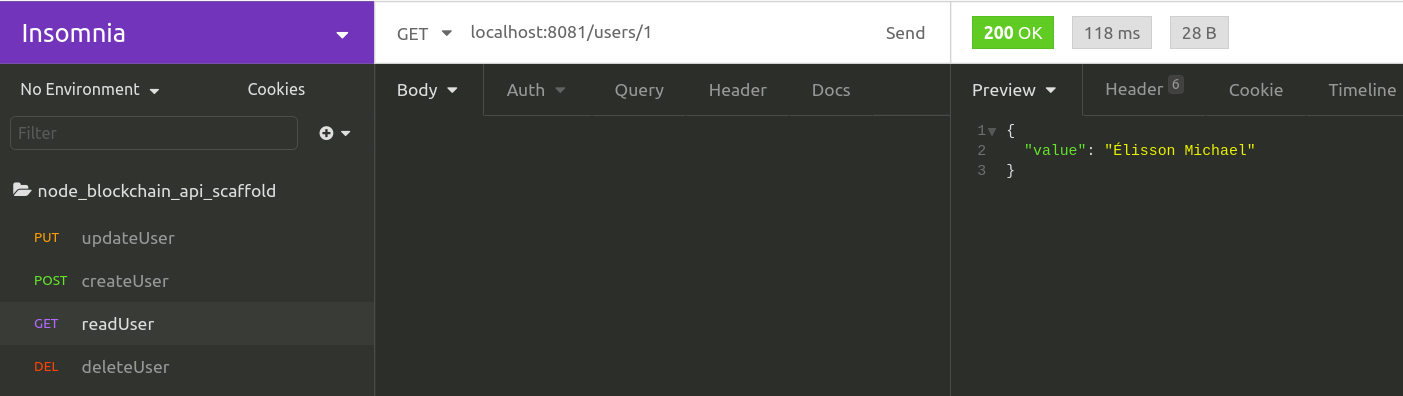
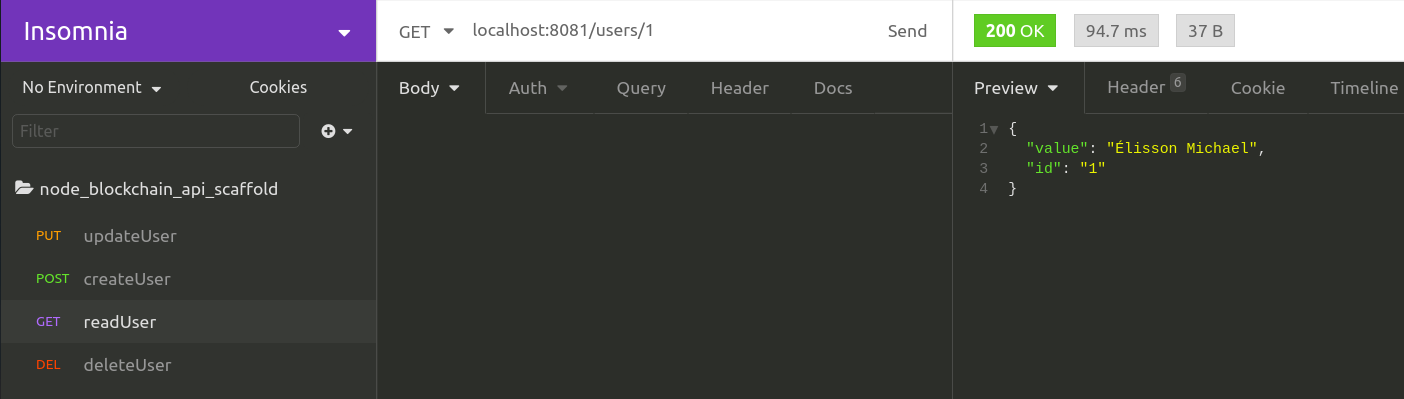
Update README With Upgrading Contract Info

diff --git a/README.md b/README.md
@@ -2,7 +2,7 @@
 
 ### My Hyperledger Fabric Node Express CRUD REST API Scaffold
 
-The objective of this repository is to provide a REST API to a the Hyperledger IBM Visual Studio Code Extension chaincode contract template. 
+The objective of this repository is to provide a REST API to a the Hyperledger IBM Visual Studio Code Extension chaincode contract template.
 
 **Install VSCode with IBM Blockchain Platform Extension**:
 - [VSCode version 1.39](https://code.visualstudio.com/updates/v1_39)
@@ -13,15 +13,15 @@ The objective of this repository is to provide a REST API to a the Hyperledger I
 
 - Click on *1 Org Local Fabric* to start (Fabric Environment)
 - Click on *Package Open Project* (Smart Contracts) after openning only contracts/users folder on VS Code
-- Click on *Fabric Environments -> Smart Contracts -> Installed -> Install* and select `node_blockchain_api_scaffold@0.0.1`
-- Click on *Fabric Environments -> Smart Contracts -> Instantiated -> Instantiate* and select `node_blockchain_api_scaffold@0.0.1` use default values (press Enter) for all questions
+- Click on *Fabric Environments -> Smart Contracts -> Installed -> Install* and select `node_blockchain_api_scaffold@0.0.2`
+- Click on *Fabric Environments -> Smart Contracts -> Instantiated -> Instantiate* and select `node_blockchain_api_scaffold@0.0.2` use default values (press Enter) for all questions
 - Click on *1 Org Local Fabric -> Org 1* -> **right click** *-> Export Wallet* and save on api/wallets (will create a folder called wallets on /api path)
 
 **To check that everything is working before using the API**:
 
 - Click on *Fabric Gateways -> 1 Org Local Fabric - Org1* and selecting admin
-- Click on *Fabric Gateways -> 1 Org Local Fabric - Org 1 -> Channels -> mychannel -> node_blockchain_api_scaffold@0.0.1 -> createUser* -> **right click** -> Submit Transaction and send `["1", "Élisson Michael"]` as argument (press Enter on next question) and you should see a "Successfully submitted transaction" notification
-- Click on *Fabric Gateways -> 1 Org Local Fabric - Org 1 -> Channels -> mychannel -> node_blockchain_api_scaffold@0.0.1 -> readUser* -> **right click** -> Evaluate Transaction and send `["1"]` as argument (press Enter on next question) and you should see a "Successfully submitted transaction" notification followed by `[SUCCESS] Returned value from readUser: {"value":"Élisson Michael"}` message on terminal
+- Click on *Fabric Gateways -> 1 Org Local Fabric - Org 1 -> Channels -> mychannel -> node_blockchain_api_scaffold@0.0.2 -> createUser* -> **right click** -> Submit Transaction and send `["1", "Élisson Michael"]` as argument (press Enter on next question) and you should see a "Successfully submitted transaction" notification
+- Click on *Fabric Gateways -> 1 Org Local Fabric - Org 1 -> Channels -> mychannel -> node_blockchain_api_scaffold@0.0.2 -> readUser* -> **right click** -> Evaluate Transaction and send `["1"]` as argument (press Enter on next question) and you should see a "Successfully submitted transaction" notification followed by `[SUCCESS] Returned value from readUser: {"value":"Élisson Michael","id":"1"}` message on terminal
 
 **Using the API**:
 
@@ -46,3 +46,14 @@ Open Insomnia, Postman or Similar and test the following routes on the endpoint 
 ![Insomnia Example](/insomnia.png)
 
 Check the [commits history](https://github.com/elissonmichael/node_blockchain_api_scaffold/commits/master) to see some of the [SDK methods](https://hyperledger.github.io/fabric-sdk-node/release-1.4/module-fabric-network.Contract.html) in action.
+
+**Upgrading a Contract**:
+
+Every time you change the contract you'll have to:
+
+- Run automated tests `npm test`
+- Update version on *package.json* file
+- Click on *Smart Contracts -> Package Open Project* to create a new package
+- Click on *Fabric Environments -> Smart Contracts -> Installed -> Install* and select your new contract package
+- Click on *Fabric Environments -> Smart Contracts -> Instantiated -> [Your Contract Name] -> Upgrade Smart Contract* and select your new package version
+- Check that your new contract appears on *Fabric Gateways -> 1 Org Local Fabric - Org 1 -> Channels -> mychannel*
